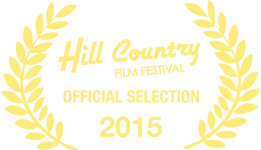
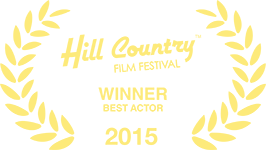
add trailer, press, etc

diff --git a/index.html b/index.html
@@ -23,10 +23,11 @@
     <header id="header">
       <nav id="main-navigation">
         <ul>
-          <li><a href="/" class="active">Home</a></li
+          <li><a href="/" class="active">Home + Trailer</a></li
           ><!-- <li><a href="/cast-and-crew">Cast &amp; Crew</a></li
           > --><li><a href="/backers">Backers</a></li
-          ><li><a href="/#screenings" data-behavior="slide-to-screenings">Screenings</a></li>
+          ><li><a href="/#screenings" data-behavior="slide-to-screenings">Screenings</a></li
+          ><li><a href="/#press" data-behavior="slide-to-press">Press</a></li>
         </ul>
       </nav>
     </header>
@@ -39,11 +40,9 @@
       <div class="group">
         <img src="images/bottle-asset.png" alt="Man trapped in tonic bottle" class="main-image">
         <div class="main-info">
-          <ul class="laurels">
-            <li><a href="http://www.hillcountryff.com" title="Hill Country Film Festival - Official Selection" target="_blank"><img src="/images/hill-country-film-festival.png" alt="Hill Country Film Festival - Official Selection"></a></li
-            ><li><a href="http://www.philadelphiaindependentfilmfestival.com" title="Philadelphia Independent Film Festival - Official Selection" target="_blank"><img src="/images/philadelphia-independent-film-festival.png" alt="Philadelphia Independent Film Festival - Official Selection"></a></li
-            ><li><a href="http://www.lacomedyfest.com" title="LA Comedy Festival - Official Selection" target="_blank"><img src="/images/la-comedy-festival.png" alt="LA Comedy Festival - Official Selection"></a></li>
-          </ul>
+          <div class="trailer-splash">
+            <a href="#"><img src="images/trailer-splash.jpg" alt="Play trailer"></a>
+          </div>
           <!-- Begin MailChimp Signup Form -->
           <form action="//dimestorefilms.us7.list-manage.com/subscribe/post?u=f0ba4388eedd17d928299ccdd&amp;id=8bba62dbde" method="post" id="mc-embedded-subscribe-form" name="mc-embedded-subscribe-form" class="validate sign-up-form" target="_blank" novalidate>
             <div id="mc_embed_signup_scroll">
@@ -63,7 +62,7 @@
   </div>
   <div class="wrapper" id="screenings">
     <div class="container">
-      <h2 class="text-align-center">Upcoming Screenings</h2>
+      <h2 class="text-align-center">Past Screenings</h2>
       <br>
       <div class="screenings-wrapper">
         <div class="screening-block">
@@ -83,7 +82,7 @@
             <br>
             Screening 4
             <br>
-            <a href="http://www.philadelphiaindependentfilmfestival.com/ticket/" class="buy-tickets" target="_blank"><span>Buy Tickets</span></a>
+            <div class="buy-tickets expired-tickets"><span>Expired</span></div>
           </div>
         </div
         ><div class="screening-block">
@@ -99,7 +98,7 @@
             </div>
             <br>
             Wednesday, April 29th @ 9:30PM
-            <a href="https://www.eventbrite.com/e/17th-la-comedy-festival-wednesday-april-29th-tickets-16530226352" class="buy-tickets" target="_blank"><span>Buy Tickets</span></a>
+            <div class="buy-tickets expired-tickets"><span>Expired</span></div>
           </div>
         </div
         ><div class="screening-block">
@@ -116,7 +115,7 @@
             <br>
             Saturday, May 2nd @ 12:15PM
             <br>Block 18, Theater 1
-            <a href="http://www.hillcountryff.com/festival/tickets-2/" class="buy-tickets" target="_blank"><span>Buy Tickets</span></a>
+            <div class="buy-tickets expired-tickets"><span>Expired</span></div>
           </div>
         </div>
       </div>
@@ -142,7 +141,24 @@
       </div>
     </div>
   </div>
+  <div class="wrapper" id="press">
+    <div class="container text-align-center">
+      <h2 class="text-align-center">Press</h2>
+      <div class="press-box page">
+        <p>You can download our <a href="http://bit.ly/owhfilmepk" target="_blank">Press Kit</a><br/>or check us out on <a href="http://bit.ly/OWHinfo" target="_blank">Film Freeway</a></p>
+      </div>
+    </div>
+  </div>
   <div class="wrapper">
+    <div class="container text-align-center">
+      <div class="footer-laurels-wrapper">
+        <ul class="laurels">
+          <li><a href="http://www.hillcountryff.com" target="_blank"><img src="/images/hill-country-film-festival.png" alt="Hill Country Film Festival - Best Actor"></a></li
+          ><li><a href="http://www.philadelphiaindependentfilmfestival.com" target="_blank"><img src="/images/philadelphia-independent-film-festival.png" alt="Philadelphia Independent Film Festival - Best Comedy"></a></li
+          ><li><a href="http://www.lacomedyfest.com" target="_blank"><img src="/images/la-comedy-festival.png" alt="LA Comedy Festival - Official Selection"></a></li>
+        </ul>
+      </div>
+    </div>
     <div class="container text-align-center footer-logos">
       <a href="http://shatterglassstudios.com" target="_blank" title="Shatterglass Films"><img src="images/shatterglass-logo.png" alt="Shatterglass Films"></a>
       <a href="http://dimestorefilms.com" target="_blank" title="DimeStore Films"><img src="images/dimestore-logo.png" alt="DimeStore Films"></a>
@@ -155,6 +171,7 @@
   </div>
   <script src="https://ajax.googleapis.com/ajax/libs/jquery/1.11.2/jquery.min.js"></script>
   <script>if (!window.jQuery) { document.write('<script src="/javascript/libs/jquery.min.js"><\/script>'); }</script>
+  <script src="javascript/plugins/jquery.fitvids.js"></script>
   <script src="javascript/jquery.init.js"></script>
 </body>
 </html>

diff --git a/javascript/plugins/jquery.fitvids.js b/javascript/plugins/jquery.fitvids.js
@@ -1,0 +1,82 @@
+/*jshint browser:true */
+/*!
+* FitVids 1.1
+*
+* Copyright 2013, Chris Coyier - http://css-tricks.com + Dave Rupert - http://daverupert.com
+* Credit to Thierry Koblentz - http://www.alistapart.com/articles/creating-intrinsic-ratios-for-video/
+* Released under the WTFPL license - http://sam.zoy.org/wtfpl/
+*
+*/
+
+;(function( $ ){
+
+  'use strict';
+
+  $.fn.fitVids = function( options ) {
+    var settings = {
+      customSelector: null,
+      ignore: null
+    };
+
+    if(!document.getElementById('fit-vids-style')) {
+      // appendStyles: https://github.com/toddmotto/fluidvids/blob/master/dist/fluidvids.js
+      var head = document.head || document.getElementsByTagName('head')[0];
+      var css = '.fluid-width-video-wrapper{width:100%;position:relative;padding:0;}.fluid-width-video-wrapper iframe,.fluid-width-video-wrapper object,.fluid-width-video-wrapper embed {position:absolute;top:0;left:0;width:100%;height:100%;}';
+      var div = document.createElement("div");
+      div.innerHTML = '<p>x</p><style id="fit-vids-style">' + css + '</style>';
+      head.appendChild(div.childNodes[1]);
+    }
+
+    if ( options ) {
+      $.extend( settings, options );
+    }
+
+    return this.each(function(){
+      var selectors = [
+        'iframe[src*="player.vimeo.com"]',
+        'iframe[src*="youtube.com"]',
+        'iframe[src*="youtube-nocookie.com"]',
+        'iframe[src*="kickstarter.com"][src*="video.html"]',
+        'object',
+        'embed'
+      ];
+
+      if (settings.customSelector) {
+        selectors.push(settings.customSelector);
+      }
+
+      var ignoreList = '.fitvidsignore';
+
+      if(settings.ignore) {
+        ignoreList = ignoreList + ', ' + settings.ignore;
+      }
+
+      var $allVideos = $(this).find(selectors.join(','));
+      $allVideos = $allVideos.not('object object'); // SwfObj conflict patch
+      $allVideos = $allVideos.not(ignoreList); // Disable FitVids on this video.
+
+      $allVideos.each(function(count){
+        var $this = $(this);
+        if($this.parents(ignoreList).length > 0) {
+          return; // Disable FitVids on this video.
+        }
+        if (this.tagName.toLowerCase() === 'embed' && $this.parent('object').length || $this.parent('.fluid-width-video-wrapper').length) { return; }
+        if ((!$this.css('height') && !$this.css('width')) && (isNaN($this.attr('height')) || isNaN($this.attr('width'))))
+        {
+          $this.attr('height', 9);
+          $this.attr('width', 16);
+        }
+        var height = ( this.tagName.toLowerCase() === 'object' || ($this.attr('height') && !isNaN(parseInt($this.attr('height'), 10))) ) ? parseInt($this.attr('height'), 10) : $this.height(),
+            width = !isNaN(parseInt($this.attr('width'), 10)) ? parseInt($this.attr('width'), 10) : $this.width(),
+            aspectRatio = height / width;
+        if(!$this.attr('id')){
+          var videoID = 'fitvid' + count;
+          $this.attr('id', videoID);
+        }
+        $this.wrap('<div class="fluid-width-video-wrapper"></div>').parent('.fluid-width-video-wrapper').css('padding-top', (aspectRatio * 100)+'%');
+        $this.removeAttr('height').removeAttr('width');
+      });
+    });
+  };
+// Works with either jQuery or Zepto
+})( window.jQuery || window.Zepto );

diff --git a/backers/index.html b/backers/index.html
@@ -23,10 +23,11 @@
     <header id="header">
       <nav id="main-navigation">
         <ul>
-          <li><a href="/" class="active">Home</a></li
+          <li><a href="/" class="active">Home + Trailer</a></li
           ><!-- <li><a href="/cast-and-crew">Cast &amp; Crew</a></li
           > --><li><a href="/backers">Backers</a></li
-          ><li><a href="/#screenings">Screenings</a></li>
+          ><li><a href="/#screenings">Screenings</a></li
+          ><li><a href="/#press">Press</a></li>
         </ul>
       </nav>
     </header>
@@ -51,9 +52,9 @@
     <div class="container text-align-center">
       <div class="footer-laurels-wrapper">
         <ul class="laurels">
-          <li><a href="http://www.hillcountryff.com" title="Hill Country Film Festival - Official Selection" target="_blank"><img src="/images/hill-country-film-festival.png" alt="Hill Country Film Festival - Official Selection"></a></li
-          ><li><a href="http://www.philadelphiaindependentfilmfestival.com" title="Philadelphia Independent Film Festival - Official Selection" target="_blank"><img src="/images/philadelphia-independent-film-festival.png" alt="Philadelphia Independent Film Festival - Official Selection"></a></li
-          ><li><a href="http://www.lacomedyfest.com" title="LA Comedy Festival - Official Selection" target="_blank"><img src="/images/la-comedy-festival.png" alt="LA Comedy Festival - Official Selection"></a></li>
+          <li><a href="http://www.hillcountryff.com" target="_blank"><img src="/images/hill-country-film-festival.png" alt="Hill Country Film Festival - Best Actor"></a></li
+          ><li><a href="http://www.philadelphiaindependentfilmfestival.com" target="_blank"><img src="/images/philadelphia-independent-film-festival.png" alt="Philadelphia Independent Film Festival - Best Comedy"></a></li
+          ><li><a href="http://www.lacomedyfest.com" target="_blank"><img src="/images/la-comedy-festival.png" alt="LA Comedy Festival - Official Selection"></a></li>
         </ul>
       </div>
     </div>

diff --git a/css/screen.css b/css/screen.css
@@ -469,6 +469,7 @@ input[type="submit"]:active {
   color: #999;
   font-size: 0.875em;
 }
+.buy-tickets,
 a.buy-tickets {
   background: #44a096;
   border-bottom: 0.15em solid #337b73;
@@ -483,11 +484,45 @@ a.buy-tickets {
   text-decoration: none;
   text-transform: uppercase;
 }
+.buy-tickets span,
 a.buy-tickets span {
   font-size: 2em;
   font-weight: 200;
   text-shadow: 0 0.05em 0 #337b73;
 }
+.expired-tickets {
+  opacity: 0.5;
+}
+#trailer {
+}
+.trailer-splash {
+  box-shadow: 0.5em 0.5em 0 rgba(0,0,0,0.2);
+}
+.trailer-splash a {
+  display: block;
+}
+.trailer-splash img {
+  display: block;
+  max-width: 100%;
+  height: auto;
+}
+.press-box {
+  padding: 2em;
+}
+.press-box p {
+  font-family: 'jovial', serif;
+  text-transform: uppercase;
+  font-size: 1.5em;
+}
+.press-box a {
+  color: #c14927;
+  font-weight: bold;
+}
+.press-box a:hover {
+  text-decoration: none;
+}
+
+
 @media only screen and (max-device-width : 768px) {
   #header,
   .container,

diff --git a/javascript/jquery.init.js b/javascript/jquery.init.js
@@ -51,12 +51,26 @@ $(document).ready(function() {
     }
   });
   $('a[data-behavior="slide-to-screenings"]').on('click', function(e) {
-    console.log('test');
     if ($('#screenings').length) {
       $('html, body').animate({
         scrollTop: $('#screenings').offset().top
       }, 500);
       e.preventDefault();
     }
+  });
+  $('a[data-behavior="slide-to-press"]').on('click', function(e) {
+    if ($('#press').length) {
+      $('html, body').animate({
+        scrollTop: $('#press').offset().top
+      }, 500);
+      e.preventDefault();
+    }
+  });
+  $('.trailer-splash a').on('click', function(e) {
+    var video = $('<div class="vid-wrapper"><iframe width="560" height="315" src="https://www.youtube.com/embed/7a-Flujizz4?autoplay=1" frameborder="0" allowfullscreen></iframe></div>');
+    $(this).empty();
+    $(this).prepend(video);
+    $(".vid-wrapper").fitVids();
+    e.preventDefault();
   });
 });
